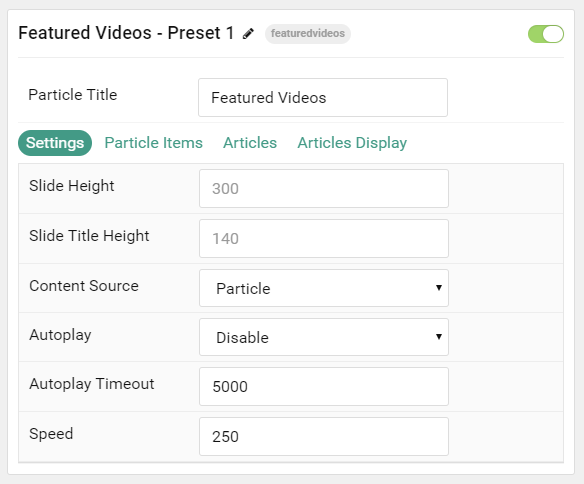
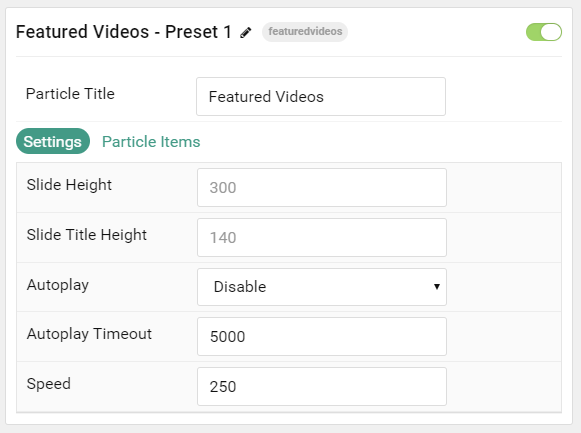
Fixed Joomla Reiko Featured Video Doc

diff --git a/Docs/joomla/templates/reiko/particle_featuredvideos.md b/Docs/joomla/templates/reiko/particle_featuredvideos.md
@@ -16,8 +16,6 @@ Here are the topics covered in this guide:
 * [Configuration](#configuration)
     - [Main Options](#settings)
     - [Item Options](#particle-item-options)
-    - [Articles](#articles)
-    - [Display](#display)
 
 ## Configuration
 
@@ -30,16 +28,15 @@ These options affect the main area of the particle, and not the individual items
 | Option             | Description                                                                                         |
 | :-----             | :-----                                                                                              |
 | Particle Name      | This is the name of the particle used for back end management. It does not appear on the front end. |
-| Content Source     | Choose between **Particle** and **Joomla** as the Content Source.                                   |
 | Slide Height       | Set the height (in pixels) for the slides.                                                          |
-| Slide Title Height | Set the height (in pixels) for the slide's titles.                                                                                                    |
+| Slide Title Height | Set the height (in pixels) for the slide's titles.                                                  |
 | Autoplay           | **Enable** or **Disable** autoplay for the particle.                                                |
 | Autoplay Timeout   | Set the timeout (in milliseconds) for the autoplay.                                                 |
 | Speed              | Set the transition speed (in milliseconds) for the particle.                                        |
 
 ### Particle Item Options
 
-These items make up the individual featured items in the particle. Items in this section will only appear if **Particle** is selected as the **Content Source**.
+These items make up the individual featured items in the particle.
 
 ![](assets/particle_featuredvideos3.png)
 
@@ -52,31 +49,3 @@ These items make up the individual featured items in the particle. Items in this
 | Alt Attribute | Set an alternative attribute for the item.                                       |
 | Link          | Set a URL for the item to take visitors to (YouTube requires /embed/ url).       |
 | Link Target   | Set the target for the URL to open in.                                           |
-
-### Articles
-
-![](assets/particle_featuredvideos6.png)
-
-| Option             | Description                                                                                                     |
-| :-----             | :-----                                                                                                          |
-| Categories         | Select the categories of articles this particle will display.                                                   |
-| Articles           | Select the number of articles you would like the particle to fetch.                                             |
-| Featured Articles  | Choose how Featured Articles should be filtered. Choose between **Include**, **Exclude**, or **Only Featured**. |
-| Number of Articles | Enter the maximum number of articles to display.                                                                |
-| Start From         | Enter offset specifying the first article to return. The default is '0' (the first article).                    |
-| Order By           | Choose the type of factor to order by.                                                                          |
-| Ordering Direction | Choose between **Ascending** and **Descending** as the article ordering method.                                 |
-
-### Display
-
-This section configures how articles are displayed.
-
-![](assets/particle_featuredvideos7.png)
-
-| Option         | Description                                                     |
-| :-----         | :-----                                                          |
-| Particle Title | Set a title for the particle.                                   |
-| Title          | **Show** or **Hide** the article's title.                       |
-| Title Limit    | Enter the maximum number of characters in the title to display. |
-| Title Link     | Set a URL for the title to link to.                             |
-| Target         | Set a target window for the read more link.                     |

diff --git a/Docs/grav/themes/reiko/particle_featuredvideos.md b/Docs/grav/themes/reiko/particle_featuredvideos.md
@@ -16,6 +16,7 @@ Here are the topics covered in this guide:
 * [Configuration](#configuration)
     - [Main Options](#settings)
     - [Item Options](#particle-item-options)
+
 ## Configuration
 
 ### Settings 
